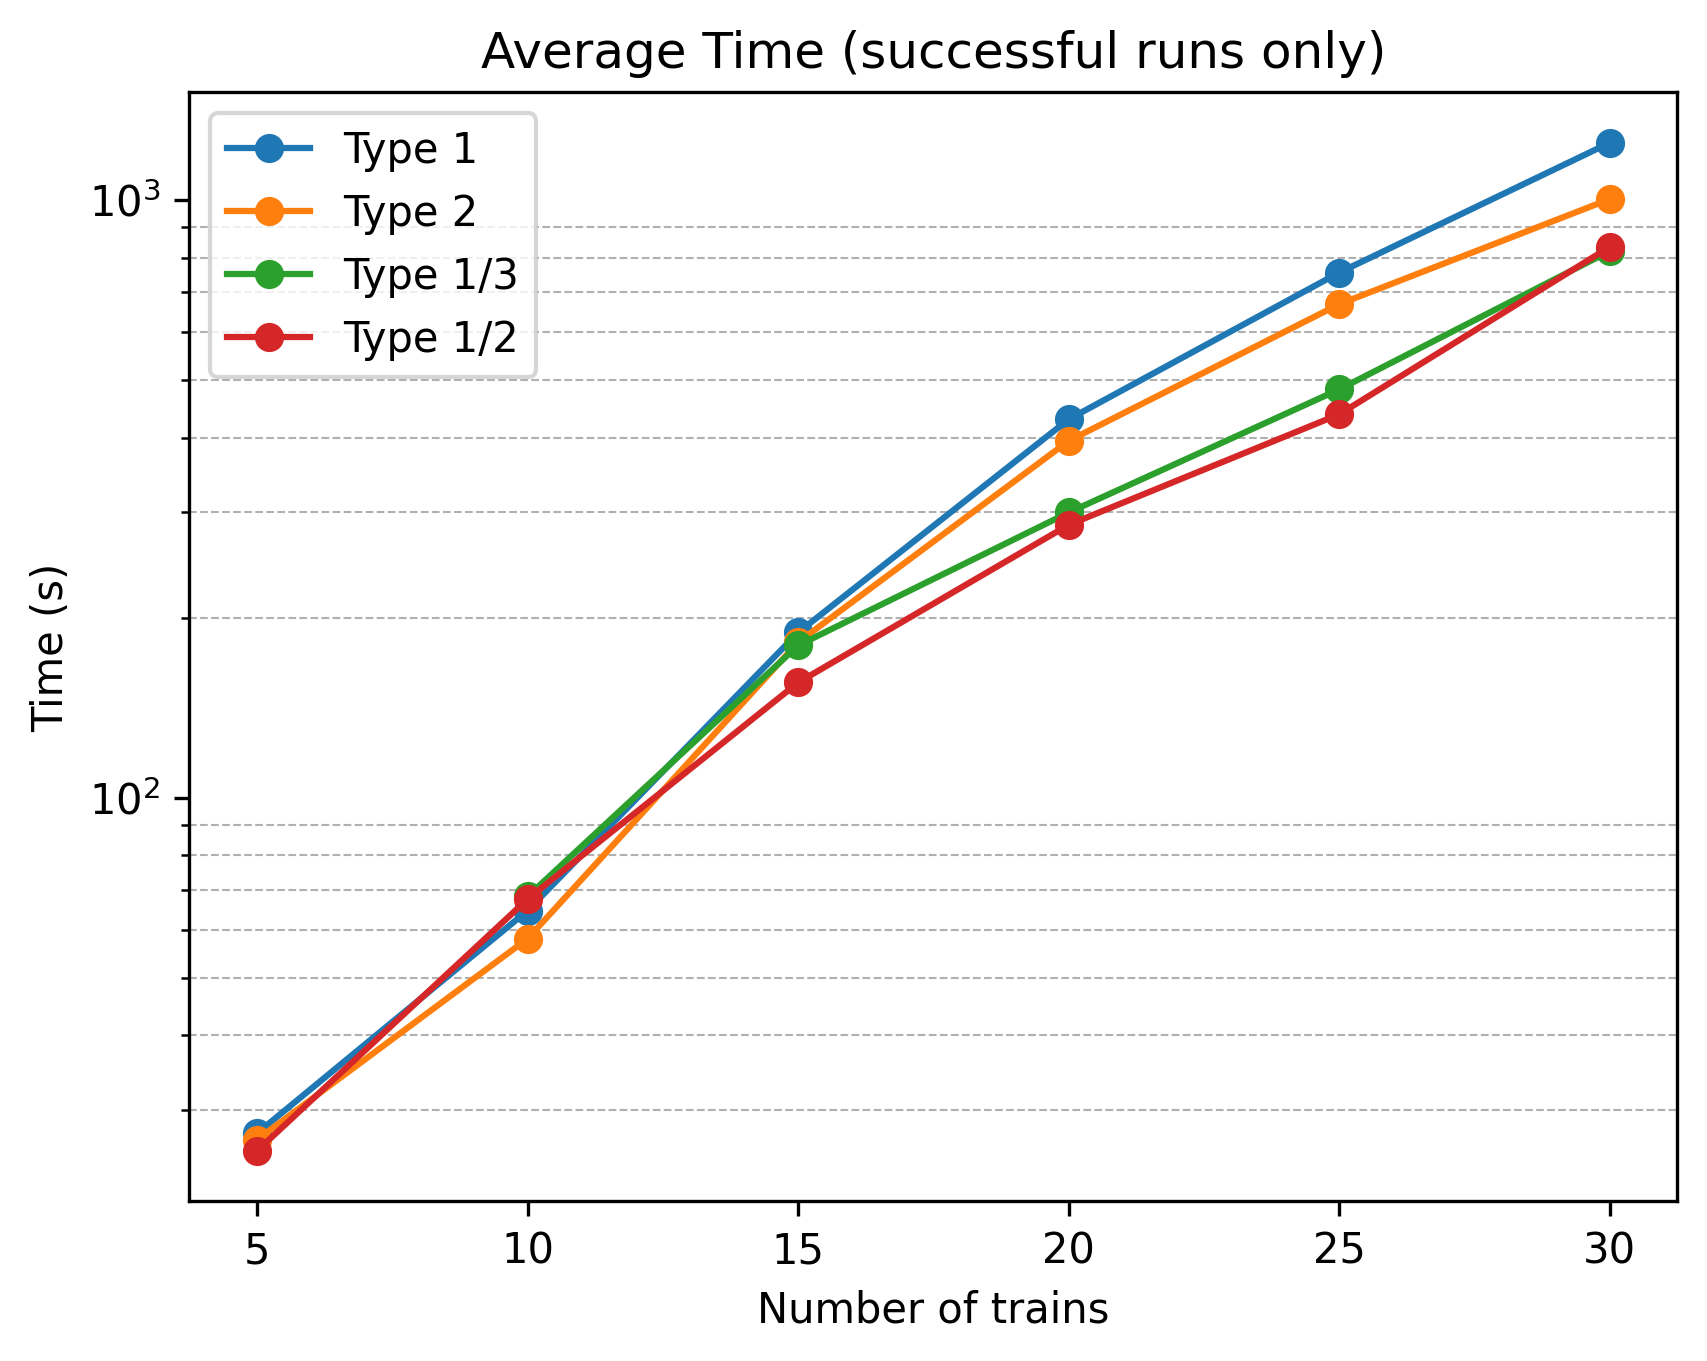
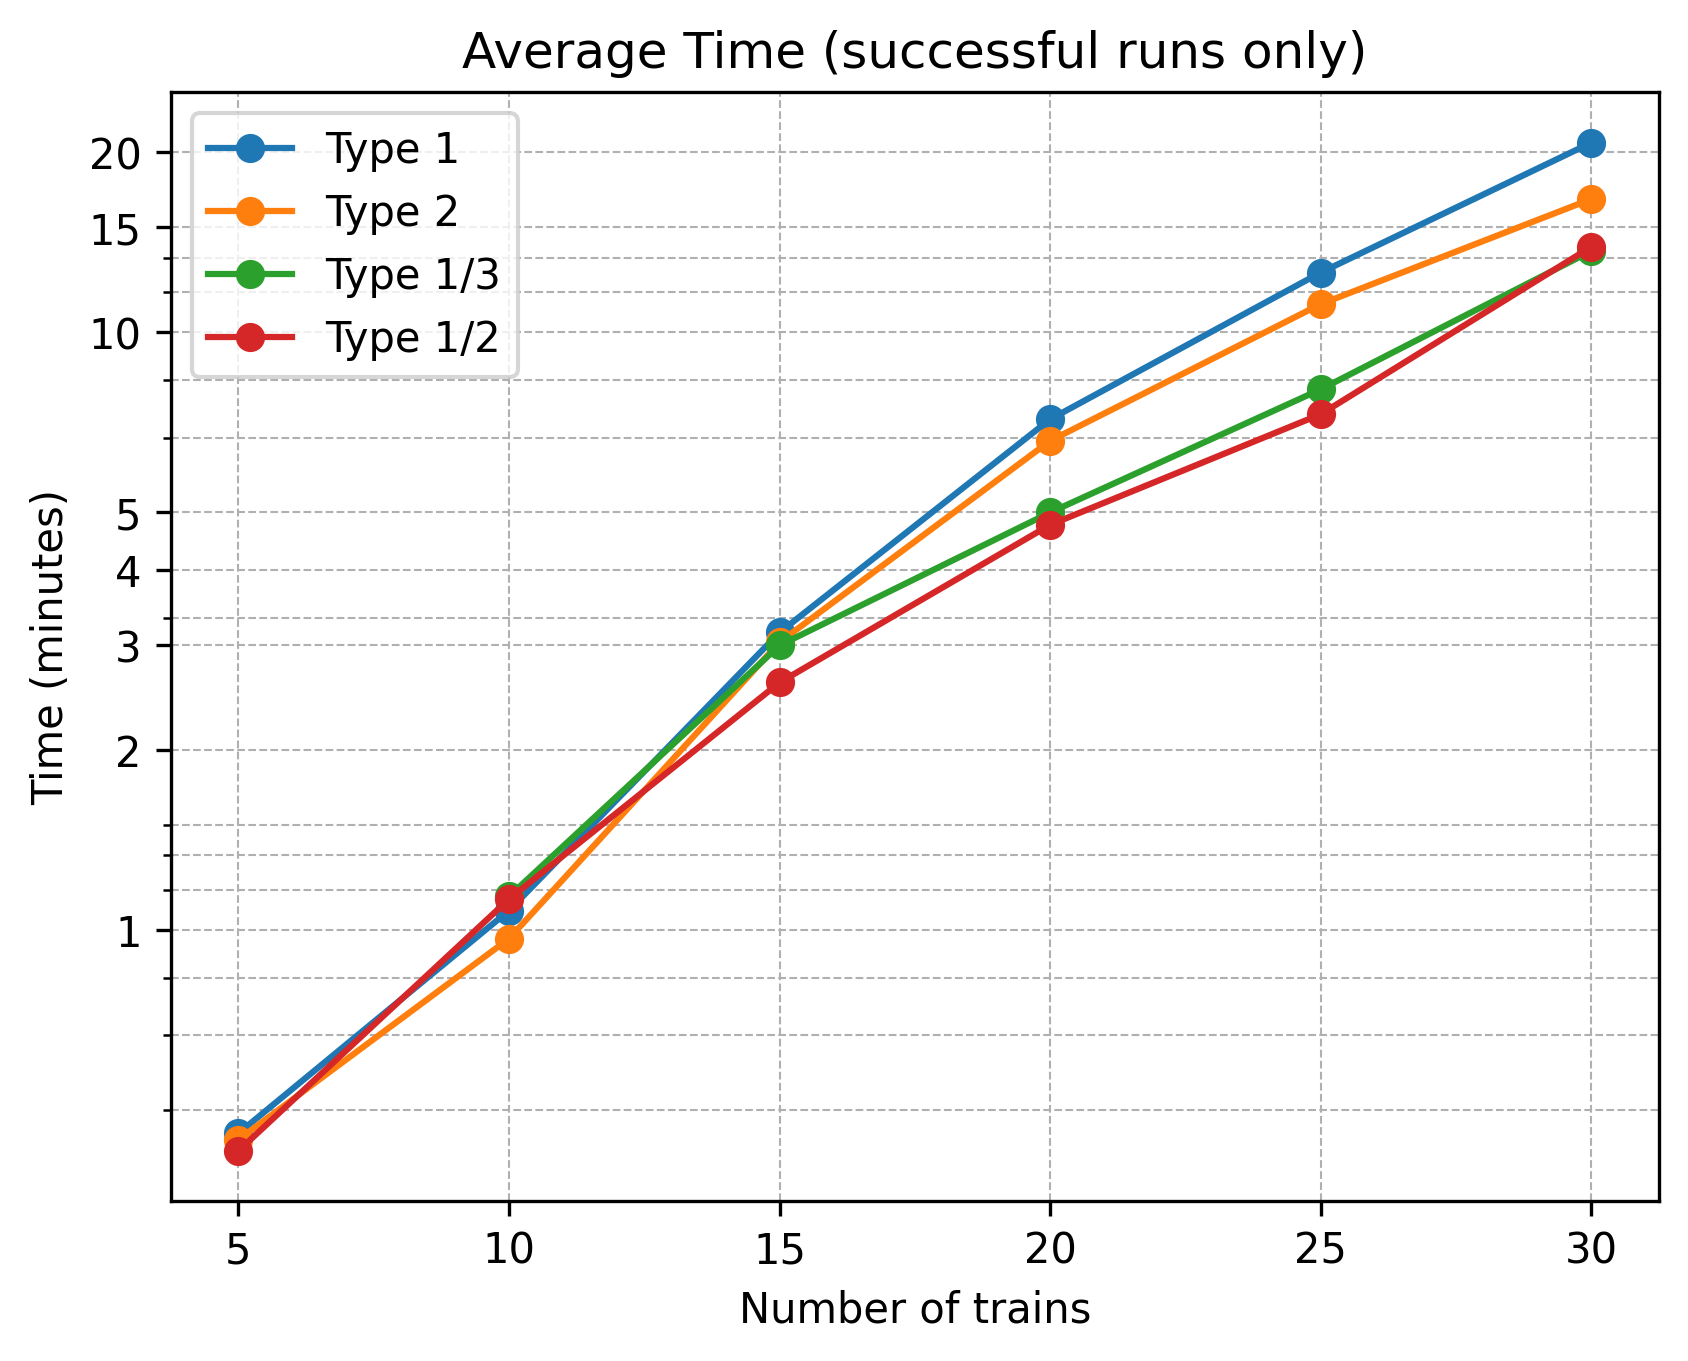
Changed results

diff --git a/plot_types.py b/plot_types.py
@@ -16,80 +16,122 @@ avg_time = (
   .mean()
   .unstack()
 )
-
 plt.figure()
-
-
-
 
 for t in type_order:
   if t in avg_time.columns:
     plt.plot(avg_time.index, avg_time[t], marker='o', label=f"Type {t}")
 
 plt.xlabel("Number of trains")
-plt.ylabel("Time (s)")
+plt.ylabel("Time (minutes)")
 plt.yscale("log")
+
+# Set y-ticks at desired minute values (converted to seconds)
+minute_ticks = [1,2,3,4,5, 10, 15, 20]
+second_ticks = [m * 60 for m in minute_ticks]
+
+plt.yticks(second_ticks, labels=minute_ticks)
+
 plt.grid(True, which="both", linestyle="--", linewidth=0.5)
 plt.title("Average Time (successful runs only)")
 plt.legend()
-plt.grid()
+
 plt.savefig("results/types.png", dpi=300, bbox_inches="tight")
 
 
-solved_count = (
-  df.groupby(["num_trains", "type"])["solution_found"]
-  .sum()
+
+#with fails
+df = pd.read_csv("results_types/combined_results.csv")
+
+df["solution_found"] = df["solution_found"].astype(bool)
+
+# Assign 1800 seconds (30 minutes) to runs where no solution was found
+df.loc[~df["solution_found"], "time"] = 1800
+
+type_order = ["1", "2", "1/3", "1/2"]
+
+# Include all runs for averaging
+avg_time = (
+  df
+  .groupby(["num_trains", "type"])["time"]
+  .mean()
   .unstack()
 )
 
 plt.figure()
 
 for t in type_order:
-  if t in solved_count.columns:
-    plt.plot(solved_count.index, solved_count[t], marker='o', label=f"Type {t}")
+  if t in avg_time.columns:
+    plt.plot(avg_time.index, avg_time[t], marker='o', label=f"Type {t}")
 
 plt.xlabel("Number of trains")
-plt.ylabel("Solved instances (out of 20)")
-plt.title("Number of solved instances")
+plt.ylabel("Time (minutes)")
+plt.yscale("log")
+
+# Y-axis ticks in minutes
+minute_ticks = [1, 2, 3, 4, 5, 10, 15, 20, 25]
+second_ticks = [m * 60 for m in minute_ticks]
+plt.yticks(second_ticks, labels=minute_ticks)
+
+plt.grid(True, which="both", linestyle="--", linewidth=0.5)
+plt.title("Average Time (failures as 30 min)")
 plt.legend()
-plt.grid()
 
-plt.savefig("results/solutions_found.png", dpi=300, bbox_inches="tight")
-
-
-avg_movements = (
-  df[df["solution_found"] == True]
-  .groupby("num_trains")["num_movements"]
-  .mean()
-)
-
-min_movements = {
-  5: 10,
-  10: 22,
-  15: 42,
-  20: 66,
-  25: 102,
-  30: 134
-}
-
-min_x = list(min_movements.keys())
-min_y = list(min_movements.values())
-
-plt.figure()
-
-plt.plot(avg_movements.index, avg_movements.values, marker='o', label="Average movements")
-plt.plot(min_x, min_y, linestyle="--", marker='o', label="Minimum required movements")
-
-plt.xlabel("Number of trains")
-plt.ylabel("Number of movements")
-plt.title("Average vs Minimum Movements")
-
-plt.legend()
-plt.grid()
-
-plt.savefig("results/movements_plot.png", dpi=300, bbox_inches="tight")
+plt.savefig("results/types_failures.png", dpi=300, bbox_inches="tight")
 
 
+# solved_count = (
+#   df.groupby(["num_trains", "type"])["solution_found"]
+#   .sum()
+#   .unstack()
+# )
+
+# plt.figure()
+
+# for t in type_order:
+#   if t in solved_count.columns:
+#     plt.plot(solved_count.index, solved_count[t], marker='o', label=f"Type {t}")
+
+# plt.xlabel("Number of trains")
+# plt.ylabel("Solved instances (out of 20)")
+# plt.title("Number of solved instances")
+# plt.legend()
+# plt.grid()
+
+# plt.savefig("results/solutions_found.png", dpi=300, bbox_inches="tight")
+
+
+# avg_movements = (
+#   df[df["solution_found"] == True]
+#   .groupby("num_trains")["num_movements"]
+#   .mean()
+# )
+
+# min_movements = {
+#   5: 10,
+#   10: 22,
+#   15: 42,
+#   20: 66,
+#   25: 102,
+#   30: 134
+# }
+
+# min_x = list(min_movements.keys())
+# min_y = list(min_movements.values())
+
+# plt.figure()
+
+# plt.plot(avg_movements.index, avg_movements.values, marker='o', label="Average movements")
+# plt.plot(min_x, min_y, linestyle="--", marker='o', label="Minimum required movements")
+
+# plt.xlabel("Number of trains")
+# plt.ylabel("Number of movements")
+# plt.title("Average vs Minimum Movements")
+
+# plt.legend()
+# plt.grid()
+
+# plt.savefig("results/movements_plot.png", dpi=300, bbox_inches="tight")
 
 
 
@@ -99,110 +141,112 @@ plt.savefig("results/movements_plot.png", dpi=300, bbox_inches="tight")
 
 
 
-folder = "solutions_types"
-max_gap = 5
 
-pattern = re.compile(r"(\d+)_trains")
 
-results = []
+# folder = "solutions_types"
+# max_gap = 5
 
-for filename in os.listdir(folder):
-  if not filename.endswith(".json"):
-    continue
+# pattern = re.compile(r"(\d+)_trains")
+
+# results = []
+
+# for filename in os.listdir(folder):
+#   if not filename.endswith(".json"):
+#     continue
   
-  match = pattern.search(filename)
-  if not match:
-    continue
+#   match = pattern.search(filename)
+#   if not match:
+#     continue
   
-  num_trains = int(match.group(1))
-  filepath = os.path.join(folder, filename)
+#   num_trains = int(match.group(1))
+#   filepath = os.path.join(folder, filename)
   
-  with open(filepath, "r") as f:
-    lines = f.readlines()
+#   with open(filepath, "r") as f:
+#     lines = f.readlines()
   
-  start_idx = None
-  for i, line in enumerate(lines):
-    if line.strip() == "agent,i,j,t":
-      start_idx = i + 1
-      break
+#   start_idx = None
+#   for i, line in enumerate(lines):
+#     if line.strip() == "agent,i,j,t":
+#       start_idx = i + 1
+#       break
   
-  if start_idx is None:
-    continue
+#   if start_idx is None:
+#     continue
   
-  movement_lines = []
-  for line in lines[start_idx:]:
-    line = line.strip()
-    if not line:
-      continue
-    if line in ["agent,n,t", "conflicts,time"]:
-      break
-    movement_lines.append(line)
+#   movement_lines = []
+#   for line in lines[start_idx:]:
+#     line = line.strip()
+#     if not line:
+#       continue
+#     if line in ["agent,n,t", "conflicts,time"]:
+#       break
+#     movement_lines.append(line)
   
-  if not movement_lines:
-    continue
+#   if not movement_lines:
+#     continue
   
-  data = [l.split(",") for l in movement_lines]
-  df = pd.DataFrame(data, columns=["agent","i","j","t"])
+#   data = [l.split(",") for l in movement_lines]
+#   df = pd.DataFrame(data, columns=["agent","i","j","t"])
   
-  df["agent"] = df["agent"].astype(int)
-  df["t"] = df["t"].astype(int)
+#   df["agent"] = df["agent"].astype(int)
+#   df["t"] = df["t"].astype(int)
   
-  df = df[df["i"] != df["j"]]
+#   df = df[df["i"] != df["j"]]
   
-  total_sequences = 0
+#   total_sequences = 0
   
-  for agent, group in df.groupby("agent"):
-    times = sorted(group["t"].tolist())
+#   for agent, group in df.groupby("agent"):
+#     times = sorted(group["t"].tolist())
     
-    if not times:
-      continue
+#     if not times:
+#       continue
     
-    sequences = 1
+#     sequences = 1
     
-    for prev, curr in zip(times, times[1:]):
-      if curr - prev > max_gap:
-        sequences += 1
+#     for prev, curr in zip(times, times[1:]):
+#       if curr - prev > max_gap:
+#         sequences += 1
     
-    total_sequences += sequences
+#     total_sequences += sequences
   
-  results.append({
-    "num_trains": num_trains,
-    "num_movements": total_sequences
-  })
+#   results.append({
+#     "num_trains": num_trains,
+#     "num_movements": total_sequences
+#   })
 
-df_results = pd.DataFrame(results)
+# df_results = pd.DataFrame(results)
 
-avg_movements = (
-  df_results
-  .groupby("num_trains")["num_movements"]
-  .mean()
-)
+# avg_movements = (
+#   df_results
+#   .groupby("num_trains")["num_movements"]
+#   .mean()
+# )
 
-print(avg_movements)
+# print(avg_movements)
 
-min_movements = {
-  5: 10,
-  10: 20,
-  15: 30,
-  20: 40,
-  25: 50,
-  30: 60
-}
+# min_movements = {
+#   5: 10,
+#   10: 20,
+#   15: 30,
+#   20: 40,
+#   25: 50,
+#   30: 60
+# }
 
-min_x = list(min_movements.keys())
-min_y = list(min_movements.values())
+# min_x = list(min_movements.keys())
+# min_y = list(min_movements.values())
 
-plt.figure()
+# plt.figure()
 
-plt.plot(avg_movements.index, avg_movements.values, marker='o', label="Average movements")
-plt.plot(min_x, min_y, linestyle="--", marker='o', label="Minimum required movements")
+# plt.plot(avg_movements.index, avg_movements.values, marker='o', label="Average movements")
+# plt.plot(min_x, min_y, linestyle="--", marker='o', label="Minimum required movements")
 
-plt.xlabel("Number of trains")
-plt.ylabel("Number of movements")
-plt.title("Average vs Minimum Movements (continuous)")
+# plt.xlabel("Number of trains")
+# plt.ylabel("Number of movements")
+# plt.title("Average vs Minimum Movements (continuous)")
 
-plt.legend()
-plt.grid()
+# plt.legend()
+# plt.grid()
 
-plt.savefig("results/movements_continues_plot.png", dpi=300, bbox_inches="tight")
+# plt.savefig("results/movements_continues_plot.png", dpi=300, bbox_inches="tight")
 
